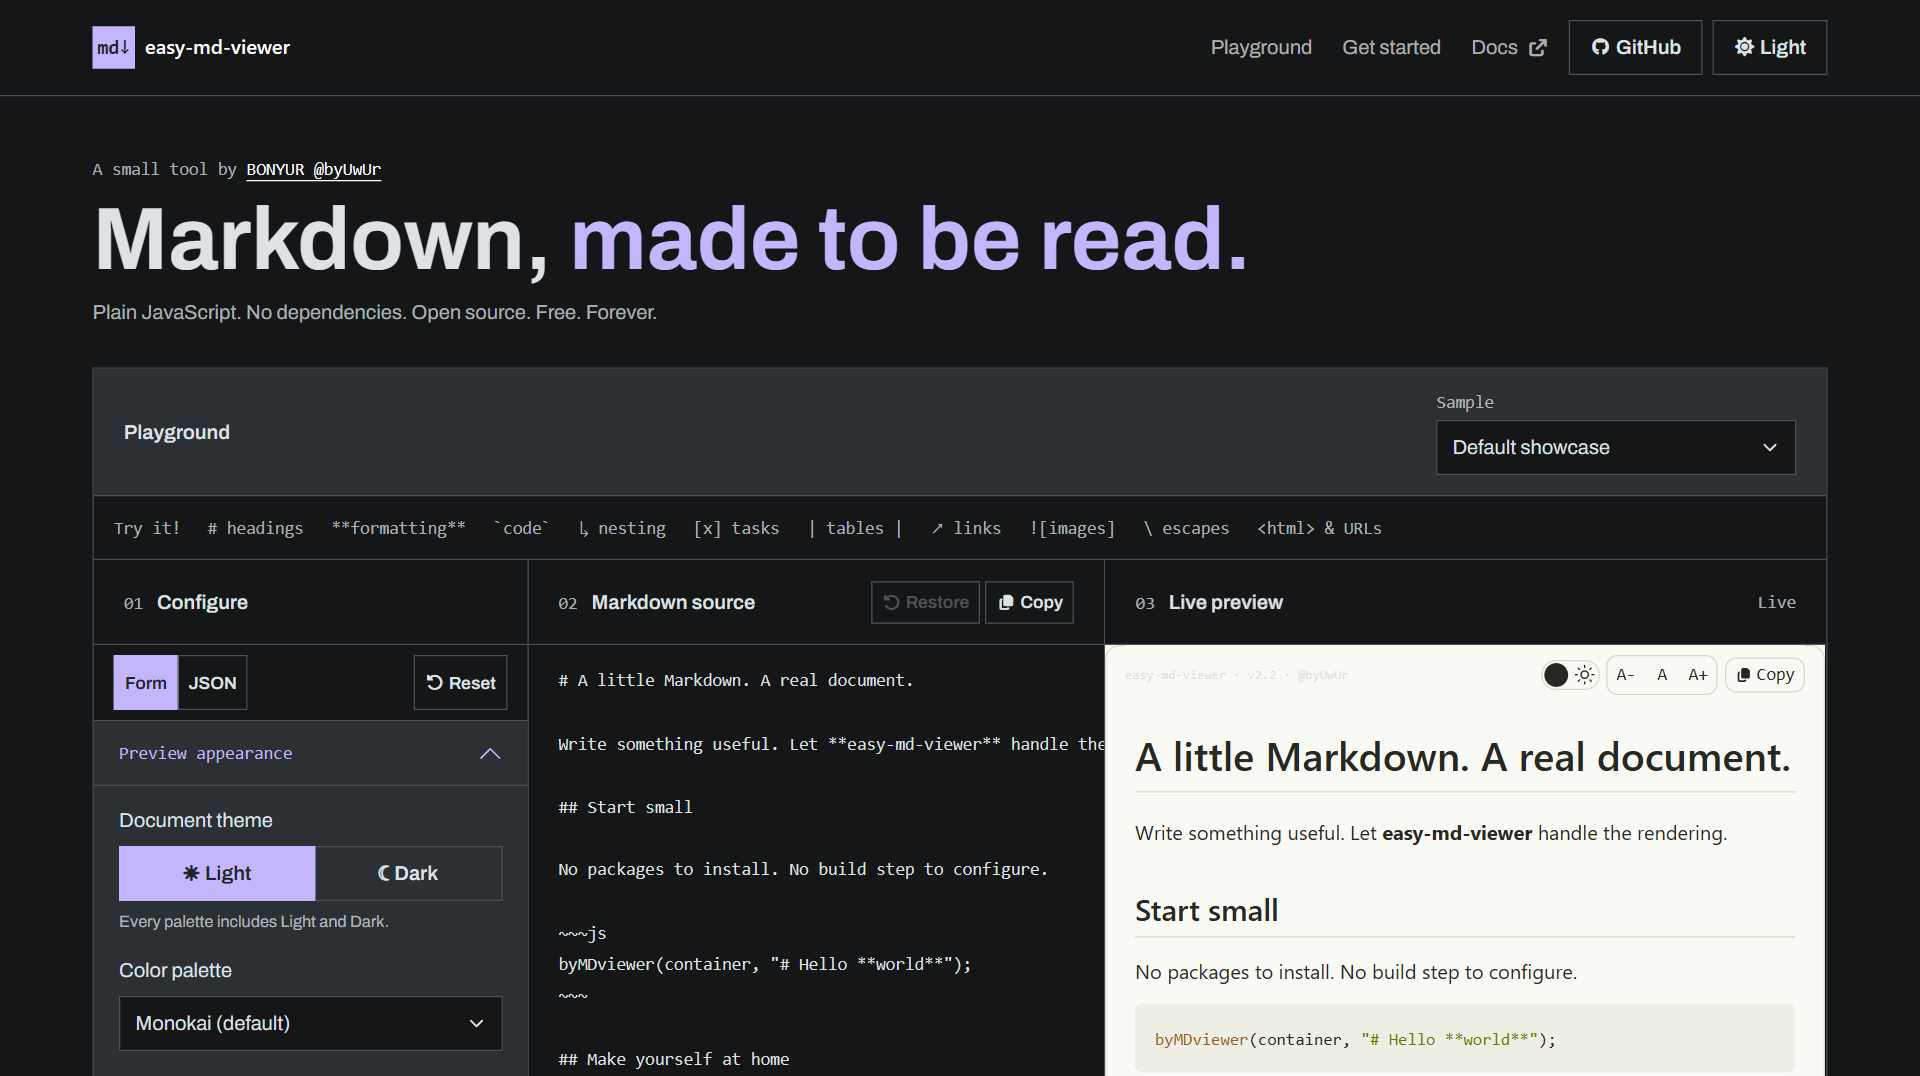
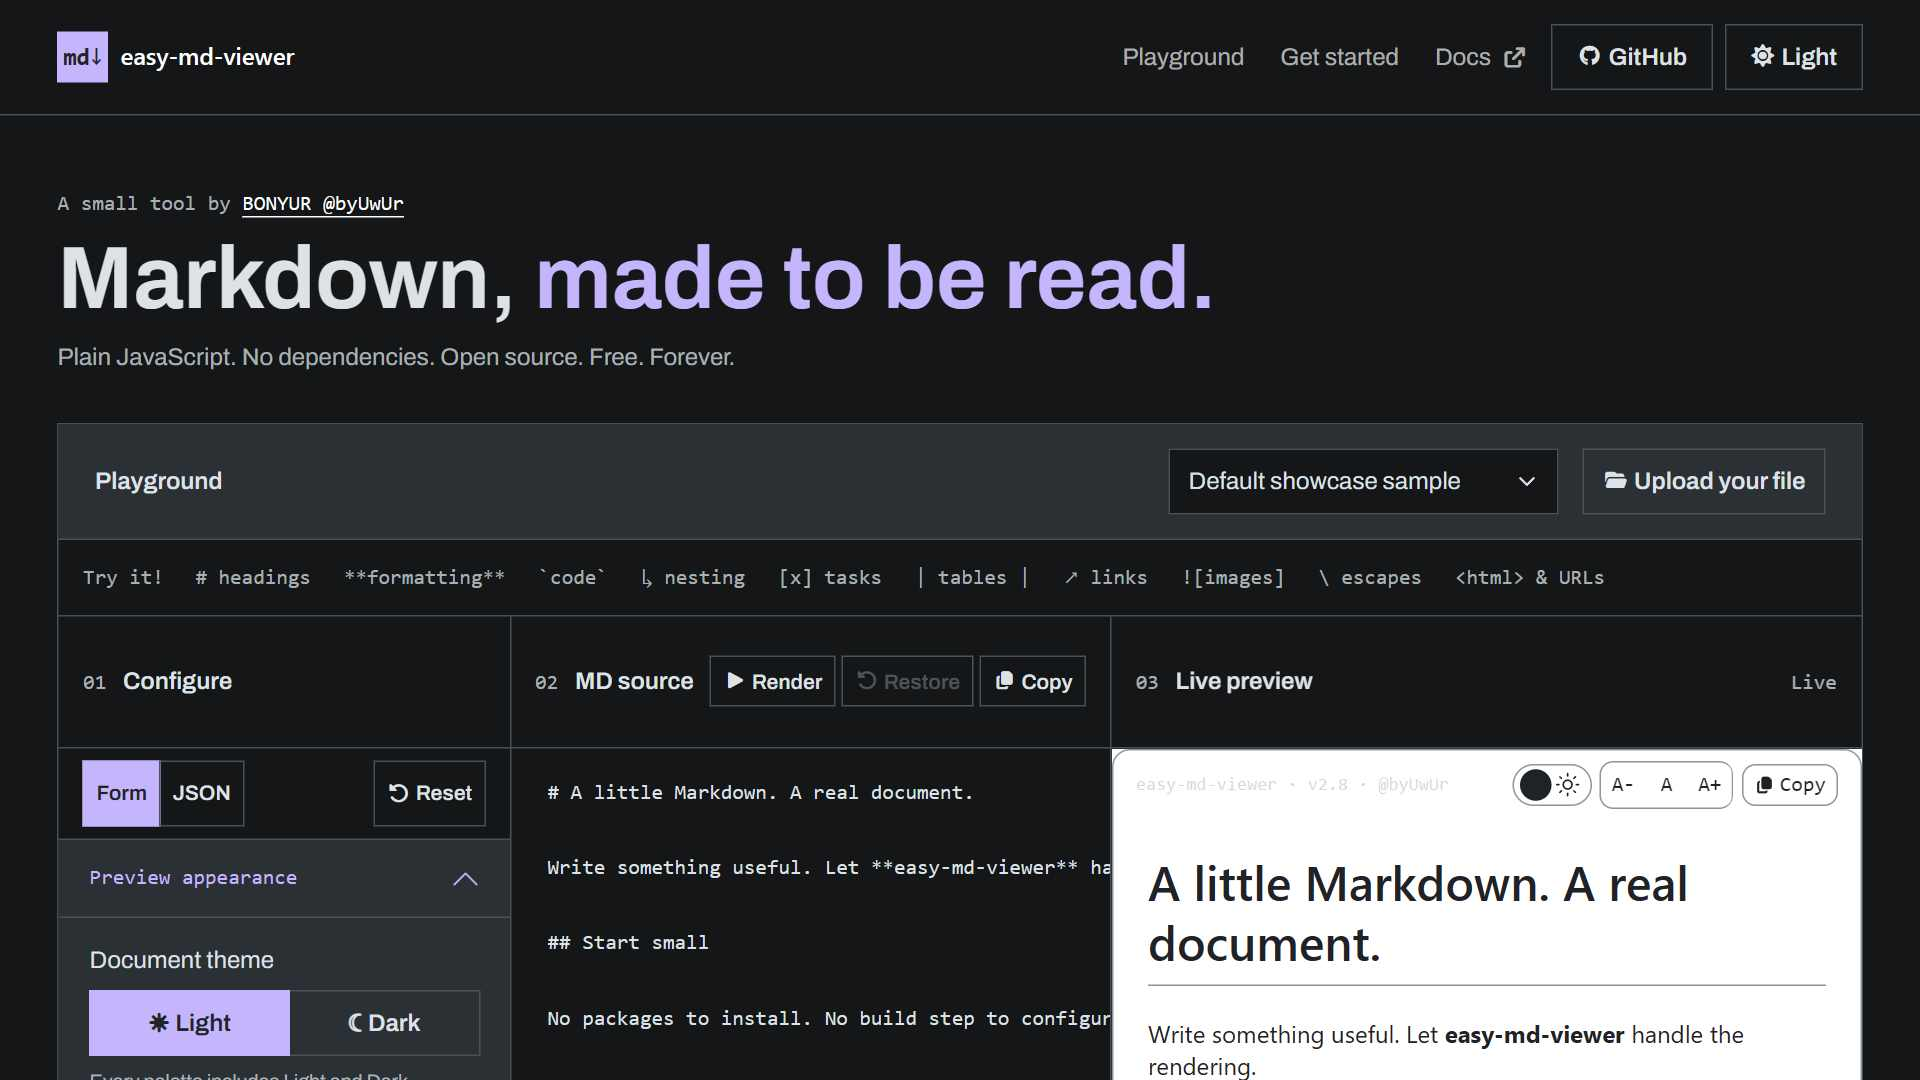
[Update] [Previews] Refresh the 1080p playground preview
Refresh the preview capture at 150% scaling, with exact 1920x1080 JPEG output capped at 100000 bytes. Align image-height metadata where present.

Validation: JPEG format, dimensions, and byte limits; affected-file diff checks.

Changed region(s): [[0.0312, 0.1533, 0.9688, 1.0], [0.5938, 0.0307, 0.9688, 0.092], [0.0312, 0.0, 0.1562, 0.092]]

diff --git a/index.html b/index.html
@@ -24,7 +24,7 @@
     <meta property="og:image" content="https://md.byuwur.co/prev.jpg" />
     <meta property="og:image:type" content="image/jpeg" />
     <meta property="og:image:width" content="1920" />
-    <meta property="og:image:height" content="1076" />
+    <meta property="og:image:height" content="1080" />
     <meta property="og:image:alt" content="easy-md-viewer by BONYUR: Markdown playground, options, source editor, and live preview." />
     <meta name="twitter:card" content="summary_large_image" />
     <meta name="twitter:creator" content="@byUwUr" />
